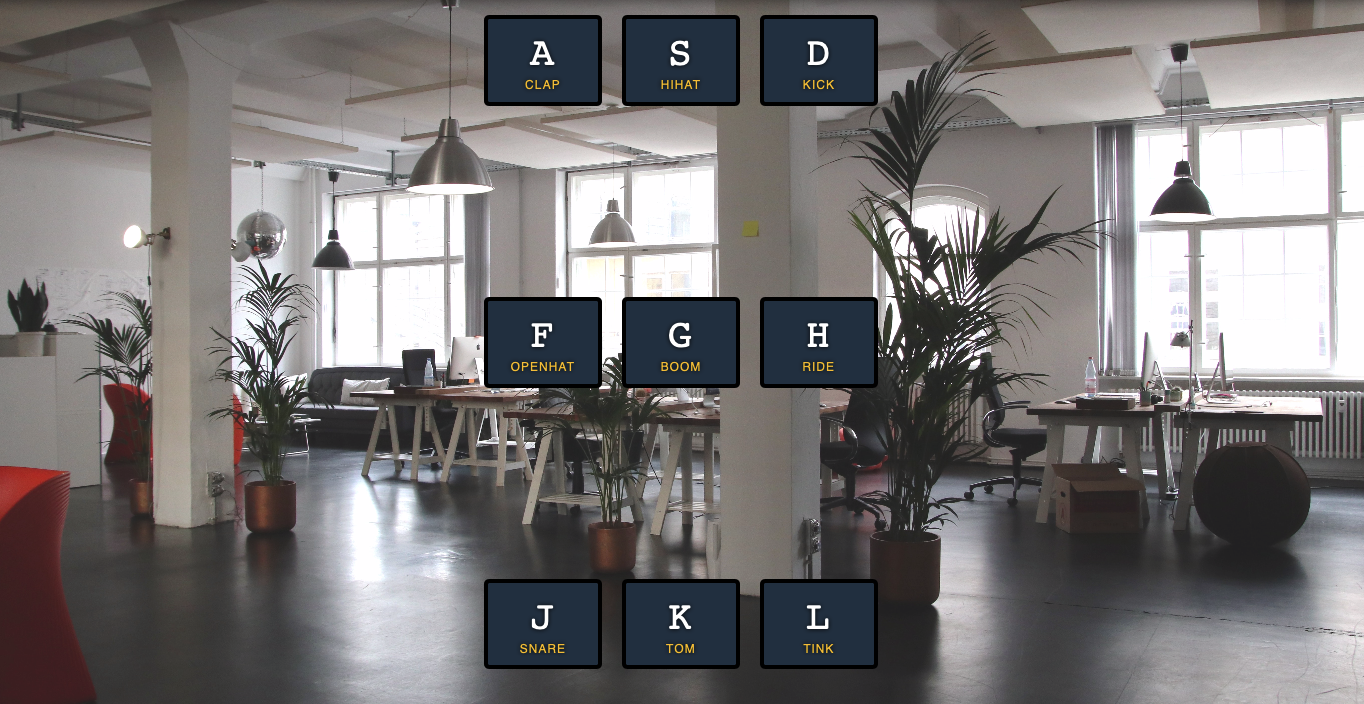
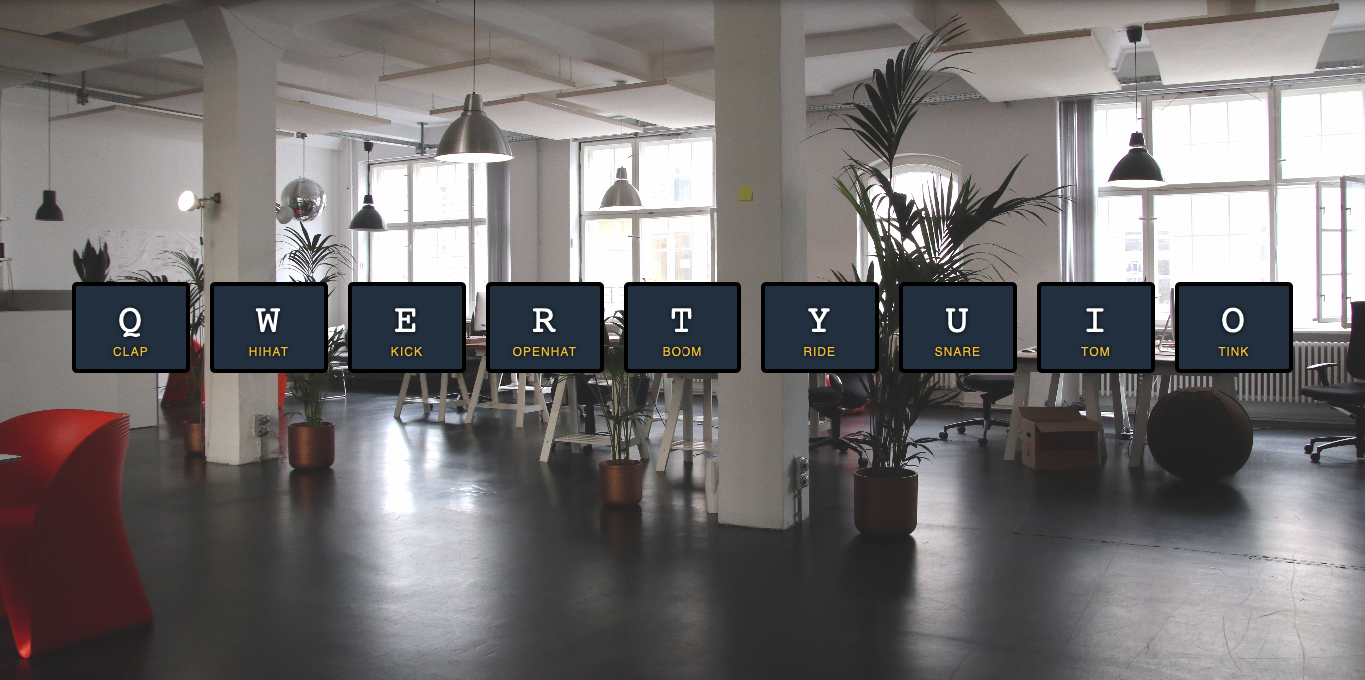
Update

diff --git a/index.html b/index.html
@@ -7,57 +7,53 @@
     </head>
     <body>
         <div class="keys">
-            <div data-key="65" class="key">
-                <kbd>A</kbd>
+            <div data-key="81" class="key">
+                <kbd>Q</kbd>
                 <span class="sound">clap</span>
             </div>
-            <div data-key="83" class="key">
-                <kbd>S</kbd>
+            <div data-key="87" class="key">
+                <kbd>W</kbd>
                 <span class="sound">hihat</span>
             </div>
-            <div data-key="68" class="key">
-                <kbd>D</kbd>
+            <div data-key="69" class="key">
+                <kbd>E</kbd>
                 <span class="sound">kick</span>
             </div>
-        </div>
-        <div class="keys">
-            <div data-key="70" class="key">
-                <kbd>F</kbd>
+            <div data-key="82" class="key">
+                <kbd>R</kbd>
                 <span class="sound">openhat</span>
             </div>
-            <div data-key="71" class="key">
-                <kbd>G</kbd>
+            <div data-key="84" class="key">
+                <kbd>T</kbd>
                 <span class="sound">boom</span>
             </div>
-            <div data-key="72" class="key">
-                <kbd>H</kbd>
+            <div data-key="89" class="key">
+                <kbd>Y</kbd>
                 <span class="sound">ride</span>
             </div>
-        </div>
-        <div class="keys">
-            <div data-key="74" class="key">
-                <kbd>J</kbd>
+            <div data-key="85" class="key">
+                <kbd>U</kbd>
                 <span class="sound">snare</span>
             </div>
-            <div data-key="75" class="key">
-                <kbd>K</kbd>
+            <div data-key="73" class="key">
+                <kbd>I</kbd>
                 <span class="sound">tom</span>
             </div>
-            <div data-key="76" class="key">
-                <kbd>L</kbd>
+            <div data-key="79" class="key">
+                <kbd>O</kbd>
                 <span class="sound">tink</span>
             </div>
         </div>
 
-        <audio data-key="65" src="sounds/clap.wav"></audio>
-        <audio data-key="83" src="sounds/hihat.wav"></audio>
-        <audio data-key="68" src="sounds/kick.wav"></audio>
-        <audio data-key="70" src="sounds/openhat.wav"></audio>
-        <audio data-key="71" src="sounds/boom.wav"></audio>
-        <audio data-key="72" src="sounds/ride.wav"></audio>
-        <audio data-key="74" src="sounds/snare.wav"></audio>
-        <audio data-key="75" src="sounds/tom.wav"></audio>
-        <audio data-key="76" src="sounds/tink.wav"></audio>
+        <audio data-key="81" src="sounds/clap.wav"></audio>
+        <audio data-key="87" src="sounds/hihat.wav"></audio>
+        <audio data-key="69" src="sounds/kick.wav"></audio>
+        <audio data-key="82" src="sounds/openhat.wav"></audio>
+        <audio data-key="84" src="sounds/boom.wav"></audio>
+        <audio data-key="89" src="sounds/ride.wav"></audio>
+        <audio data-key="85" src="sounds/snare.wav"></audio>
+        <audio data-key="73" src="sounds/tom.wav"></audio>
+        <audio data-key="79" src="sounds/tink.wav"></audio>
 
         <script>
             (()=> {

diff --git a/style.css b/style.css
@@ -11,7 +11,7 @@ body,html {
 .keys {
 	display:flex;
 	flex:1;
-	min-height:40vh;
+	min-height: 100vh;
 	align-items: center;
 	justify-content: center;
 }
